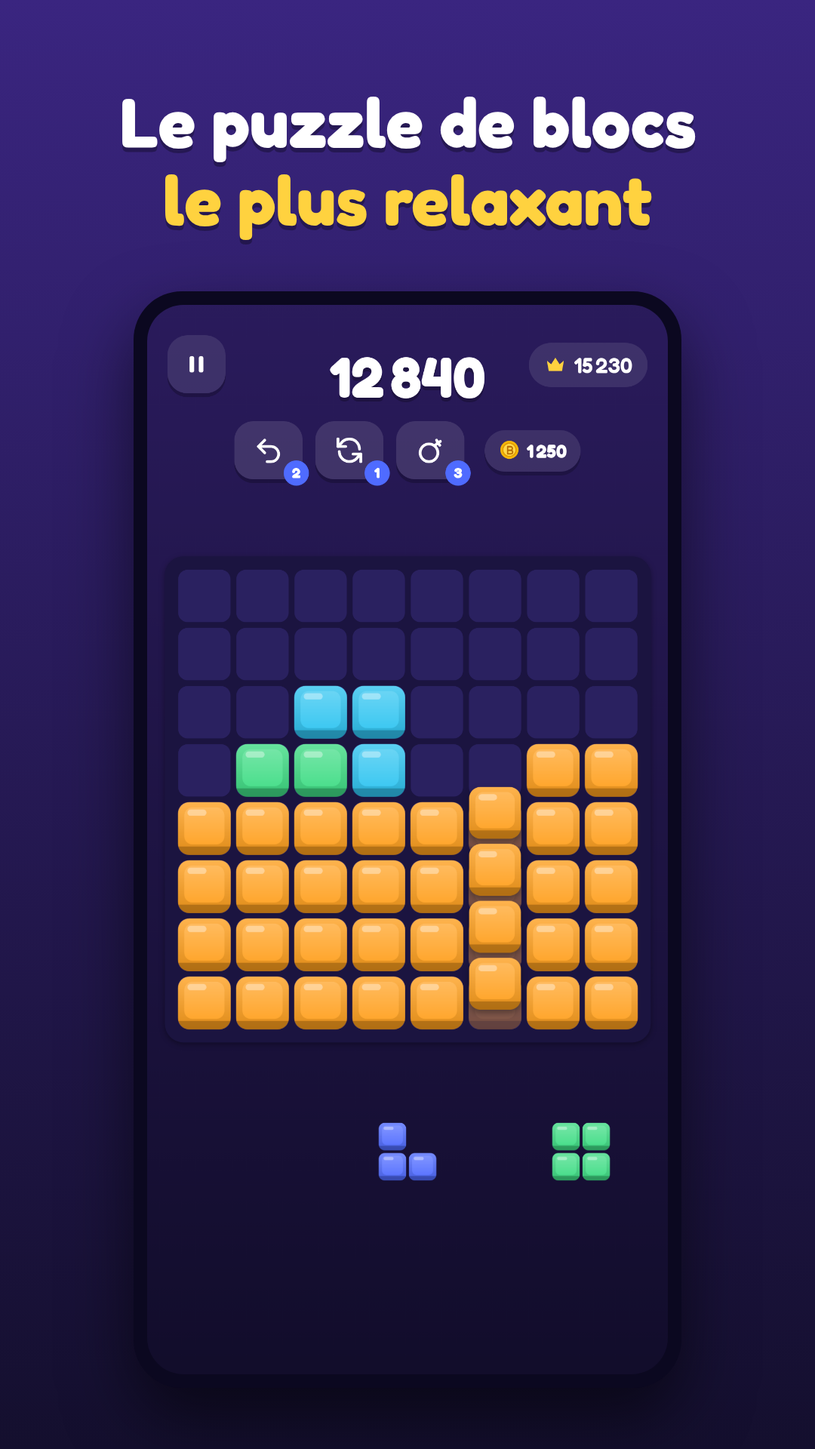
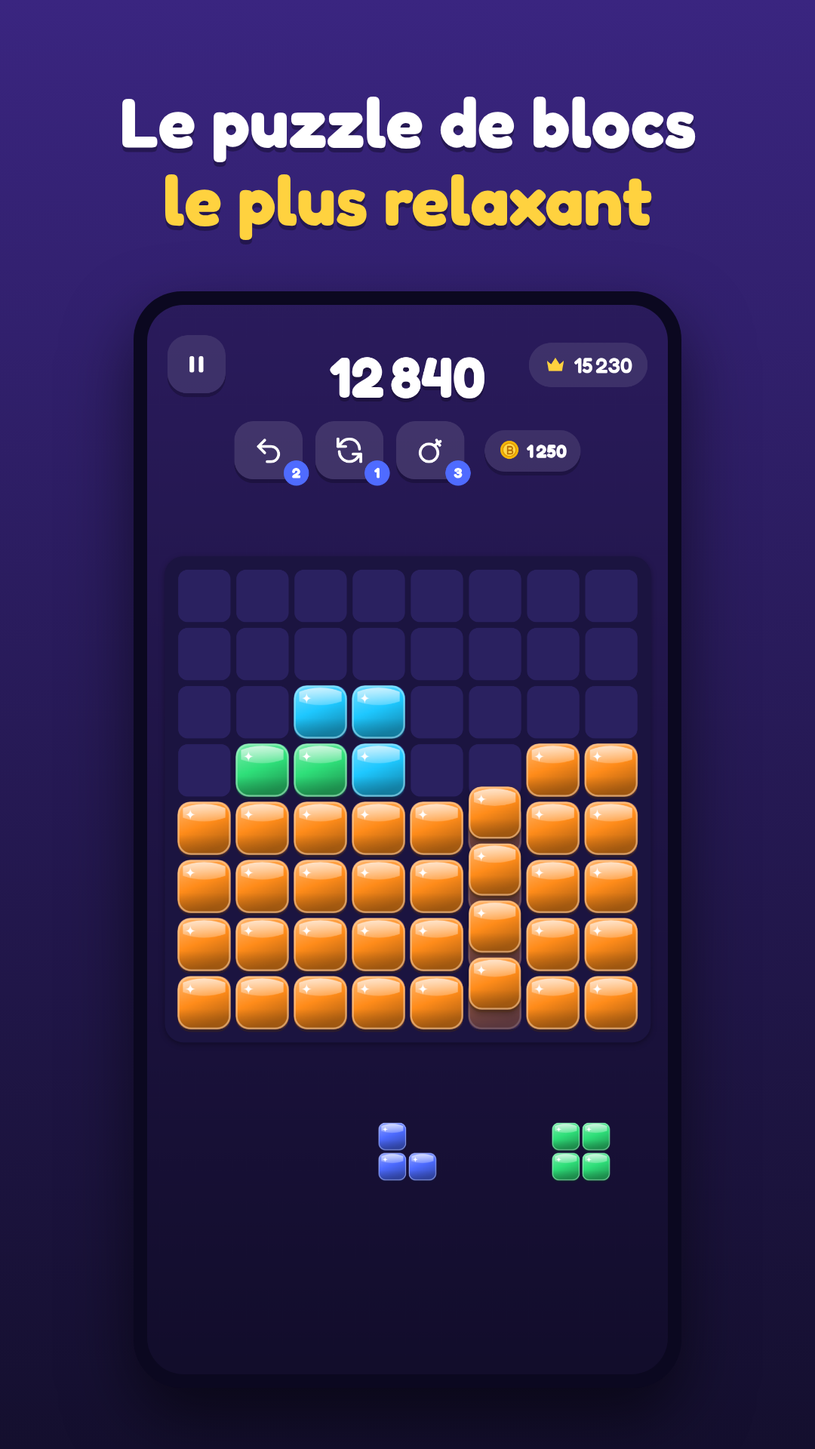
Politique de confidentialité : pass de saison ; nouvelles captures
Claude-Session: https://claude.ai/code/session_01HXMPVAVhKKP6z9kH1ty2Yw

Changed region(s): [[0.2139, 0.4688, 0.7944, 0.7188], [0.6722, 0.75, 0.7639, 0.8125], [0.4583, 0.75, 0.55, 0.8125]]

diff --git a/privacy.html b/privacy.html
@@ -60,7 +60,7 @@
 
         <h2>4. Achats intégrés (Premium et pièces)</h2>
         <p>
-          Le paiement de « Blocmo Premium » et des packs de pièces est entièrement géré par Google Play ou l’App Store. Nous ne recevons jamais tes coordonnées bancaires : uniquement la confirmation de l’achat, afin de supprimer les publicités ou de créditer tes pièces. L’identifiant de la transaction est conservé sur ton appareil pour ne jamais créditer deux fois le même achat. Les pièces sont une monnaie virtuelle utilisable uniquement dans le jeu ; elles n’ont pas de valeur en dehors du jeu et ne peuvent pas être converties en argent.
+          Le paiement de « Blocmo Premium » et des packs de pièces est entièrement géré par Google Play ou l’App Store. Nous ne recevons jamais tes coordonnées bancaires : uniquement la confirmation de l’achat, afin de supprimer les publicités ou de créditer tes pièces. L’identifiant de la transaction est conservé sur ton appareil pour ne jamais créditer deux fois le même achat. Les pièces sont une monnaie virtuelle utilisable uniquement dans le jeu ; elles n’ont pas de valeur en dehors du jeu et ne peuvent pas être converties en argent. La piste premium du pass de saison s’achète de la même façon.
         </p>
 
         <h2>5. Google Play Jeux (classements et succès)</h2>
@@ -137,7 +137,7 @@
 
         <h2>4. In-app purchases (Premium and coins)</h2>
         <p>
-          Payment for “Blocmo Premium” and coin packs is fully handled by Google Play or the App Store. We never receive your payment details — only the confirmation of the purchase, in order to remove ads or credit your coins. The transaction identifier is kept on your device so the same purchase is never credited twice. Coins are a virtual currency usable only in the game; they have no value outside the game and cannot be converted into money.
+          Payment for “Blocmo Premium” and coin packs is fully handled by Google Play or the App Store. We never receive your payment details — only the confirmation of the purchase, in order to remove ads or credit your coins. The transaction identifier is kept on your device so the same purchase is never credited twice. Coins are a virtual currency usable only in the game; they have no value outside the game and cannot be converted into money. The premium track of the season pass is purchased the same way.
         </p>
 
         <h2>5. Google Play Games (leaderboards and achievements)</h2>
@@ -213,7 +213,7 @@
 
         <h2>4. Compras integradas (Premium y monedas)</h2>
         <p>
-          El pago de «Blocmo Premium» y de los packs de monedas lo gestiona íntegramente Google Play o la App Store. Nunca recibimos tus datos bancarios: solo la confirmación de la compra, para quitar los anuncios o abonar tus monedas. El identificador de la transacción se guarda en tu dispositivo para no abonar nunca dos veces la misma compra. Las monedas son una moneda virtual que solo se puede usar en el juego; no tienen valor fuera de él y no se pueden convertir en dinero.
+          El pago de «Blocmo Premium» y de los packs de monedas lo gestiona íntegramente Google Play o la App Store. Nunca recibimos tus datos bancarios: solo la confirmación de la compra, para quitar los anuncios o abonar tus monedas. El identificador de la transacción se guarda en tu dispositivo para no abonar nunca dos veces la misma compra. Las monedas son una moneda virtual que solo se puede usar en el juego; no tienen valor fuera de él y no se pueden convertir en dinero. La pista premium del pase de temporada se compra de la misma forma.
         </p>
 
         <h2>5. Google Play Juegos (clasificaciones y logros)</h2>
@@ -292,7 +292,7 @@
 
         <h2>4. In-App-Käufe (Premium und Münzen)</h2>
         <p>
-          Die Zahlung für „Blocmo Premium“ und Münzpakete wird vollständig von Google Play oder dem App Store abgewickelt. Wir erhalten niemals deine Zahlungsdaten — nur die Bestätigung des Kaufs, um die Werbung zu entfernen oder deine Münzen gutzuschreiben. Die Transaktionskennung wird auf deinem Gerät gespeichert, damit derselbe Kauf nie doppelt gutgeschrieben wird. Münzen sind eine virtuelle Währung, die nur im Spiel verwendet werden kann; sie haben außerhalb des Spiels keinen Wert und können nicht in Geld umgetauscht werden.
+          Die Zahlung für „Blocmo Premium“ und Münzpakete wird vollständig von Google Play oder dem App Store abgewickelt. Wir erhalten niemals deine Zahlungsdaten — nur die Bestätigung des Kaufs, um die Werbung zu entfernen oder deine Münzen gutzuschreiben. Die Transaktionskennung wird auf deinem Gerät gespeichert, damit derselbe Kauf nie doppelt gutgeschrieben wird. Münzen sind eine virtuelle Währung, die nur im Spiel verwendet werden kann; sie haben außerhalb des Spiels keinen Wert und können nicht in Geld umgetauscht werden. Die Premium-Stufe des Saison-Passes wird auf die gleiche Weise gekauft.
         </p>
 
         <h2>5. Google Play Spiele (Ranglisten und Erfolge)</h2>
@@ -373,7 +373,7 @@
 
         <h2>4. Compras no app (Premium e moedas)</h2>
         <p>
-          O pagamento do “Blocmo Premium” e dos pacotes de moedas é totalmente processado pelo Google Play ou pela App Store. Nunca recebemos seus dados de pagamento — apenas a confirmação da compra, para remover os anúncios ou creditar suas moedas. O identificador da transação fica salvo no seu dispositivo para que a mesma compra nunca seja creditada duas vezes. As moedas são uma moeda virtual usada apenas no jogo; não têm valor fora dele e não podem ser convertidas em dinheiro.
+          O pagamento do “Blocmo Premium” e dos pacotes de moedas é totalmente processado pelo Google Play ou pela App Store. Nunca recebemos seus dados de pagamento — apenas a confirmação da compra, para remover os anúncios ou creditar suas moedas. O identificador da transação fica salvo no seu dispositivo para que a mesma compra nunca seja creditada duas vezes. As moedas são uma moeda virtual usada apenas no jogo; não têm valor fora dele e não podem ser convertidas em dinheiro. A trilha premium do passe de temporada é comprada da mesma forma.
         </p>
 
         <h2>5. Google Play Games (rankings e conquistas)</h2>
@@ -451,7 +451,7 @@
 
         <h2>4. Acquisti in-app (Premium e monete)</h2>
         <p>
-          Il pagamento di “Blocmo Premium” e dei pacchetti di monete è interamente gestito da Google Play o dall’App Store. Non riceviamo mai i tuoi dati di pagamento: solo la conferma dell’acquisto, per rimuovere la pubblicità o accreditare le monete. L’identificativo della transazione viene conservato sul tuo dispositivo per non accreditare mai due volte lo stesso acquisto. Le monete sono una valuta virtuale utilizzabile solo nel gioco; non hanno valore al di fuori del gioco e non possono essere convertite in denaro.
+          Il pagamento di “Blocmo Premium” e dei pacchetti di monete è interamente gestito da Google Play o dall’App Store. Non riceviamo mai i tuoi dati di pagamento: solo la conferma dell’acquisto, per rimuovere la pubblicità o accreditare le monete. L’identificativo della transazione viene conservato sul tuo dispositivo per non accreditare mai due volte lo stesso acquisto. Le monete sono una valuta virtuale utilizzabile solo nel gioco; non hanno valore al di fuori del gioco e non possono essere convertite in denaro. La parte premium del pass stagionale si acquista allo stesso modo.
         </p>
 
         <h2>5. Google Play Giochi (classifiche e obiettivi)</h2>
@@ -528,7 +528,7 @@
 
         <h2>4. アプリ内購入（プレミアムとコイン）</h2>
         <p>
-          「Blocmo プレミアム」とコインパックのお支払いは、すべて Google Play または App Store が処理します。当方がお支払い情報を受け取ることはなく、広告の非表示やコインの付与のために購入完了の確認のみを受け取ります。同じ購入が二重に付与されないよう、取引 ID を端末内に保存します。コインはゲーム内でのみ使える仮想通貨で、ゲーム外での価値はなく、現金に換えることはできません。
+          「Blocmo プレミアム」とコインパックのお支払いは、すべて Google Play または App Store が処理します。当方がお支払い情報を受け取ることはなく、広告の非表示やコインの付与のために購入完了の確認のみを受け取ります。同じ購入が二重に付与されないよう、取引 ID を端末内に保存します。コインはゲーム内でのみ使える仮想通貨で、ゲーム外での価値はなく、現金に換えることはできません。 シーズンパスのプレミアムも同じ方法で購入されます。
         </p>
 
         <h2>5. Google Play ゲーム（ランキングと実績）</h2>
@@ -599,7 +599,7 @@
 
         <h2>4. 인앱 구매 (프리미엄 및 코인)</h2>
         <p>
-          “Blocmo 프리미엄”과 코인 팩의 결제는 전적으로 Google Play 또는 App Store가 처리합니다. 저희는 결제 정보를 절대 받지 않으며, 광고 제거나 코인 지급을 위해 구매 확인만 받습니다. 같은 구매가 두 번 지급되지 않도록 거래 ID를 기기에 저장합니다. 코인은 게임 안에서만 쓸 수 있는 가상 화폐로, 게임 밖에서는 가치가 없으며 현금으로 바꿀 수 없습니다.
+          “Blocmo 프리미엄”과 코인 팩의 결제는 전적으로 Google Play 또는 App Store가 처리합니다. 저희는 결제 정보를 절대 받지 않으며, 광고 제거나 코인 지급을 위해 구매 확인만 받습니다. 같은 구매가 두 번 지급되지 않도록 거래 ID를 기기에 저장합니다. 코인은 게임 안에서만 쓸 수 있는 가상 화폐로, 게임 밖에서는 가치가 없으며 현금으로 바꿀 수 없습니다. 시즌 패스 프리미엄도 같은 방식으로 구매됩니다.
         </p>
 
         <h2>5. Google Play 게임즈 (순위표 및 업적)</h2>
@@ -667,7 +667,7 @@
 
         <h2>4. 应用内购买（高级版和金币）</h2>
         <p>
-          “Blocmo 高级版”和金币礼包的付款完全由 Google Play 或 App Store 处理。我们绝不会收到你的支付信息，只会收到购买确认，用于去除广告或发放金币。交易编号保存在你的设备上，以免同一笔购买被重复发放。金币是只能在游戏中使用的虚拟货币，在游戏外没有价值，也不能兑换成现金。
+          “Blocmo 高级版”和金币礼包的付款完全由 Google Play 或 App Store 处理。我们绝不会收到你的支付信息，只会收到购买确认，用于去除广告或发放金币。交易编号保存在你的设备上，以免同一笔购买被重复发放。金币是只能在游戏中使用的虚拟货币，在游戏外没有价值，也不能兑换成现金。 赛季通行证的高级版也以同样方式购买。
         </p>
 
         <h2>5. Google Play 游戏（排行榜和成就）</h2>
@@ -735,7 +735,7 @@
 
         <h2>4. 應用程式內購買（進階版和金幣）</h2>
         <p>
-          「Blocmo 進階版」和金幣禮包的付款完全由 Google Play 或 App Store 處理。我們絕不會收到你的付款資訊，只會收到購買確認，用於移除廣告或發放金幣。交易編號會儲存在你的裝置上，避免同一筆購買被重複發放。金幣是只能在遊戲中使用的虛擬貨幣，在遊戲外沒有價值，也不能兌換成現金。
+          「Blocmo 進階版」和金幣禮包的付款完全由 Google Play 或 App Store 處理。我們絕不會收到你的付款資訊，只會收到購買確認，用於移除廣告或發放金幣。交易編號會儲存在你的裝置上，避免同一筆購買被重複發放。金幣是只能在遊戲中使用的虛擬貨幣，在遊戲外沒有價值，也不能兌換成現金。 賽季通行證的進階版也以同樣方式購買。
         </p>
 
         <h2>5. Google Play 遊戲（排行榜和成就）</h2>
@@ -803,7 +803,7 @@
 
         <h2>4. Uygulama içi satın alımlar (Premium ve altın)</h2>
         <p>
-          “Blocmo Premium” ve altın paketlerinin ödemesi tamamen Google Play veya App Store tarafından yapılır. Ödeme bilgilerini asla almayız; yalnızca reklamları kaldırmak veya altınlarını yüklemek için satın alma onayını alırız. Aynı satın alımın iki kez yüklenmemesi için işlem kimliği cihazında saklanır. Altınlar yalnızca oyunda kullanılabilen sanal bir paradır; oyun dışında değeri yoktur ve paraya çevrilemez.
+          “Blocmo Premium” ve altın paketlerinin ödemesi tamamen Google Play veya App Store tarafından yapılır. Ödeme bilgilerini asla almayız; yalnızca reklamları kaldırmak veya altınlarını yüklemek için satın alma onayını alırız. Aynı satın alımın iki kez yüklenmemesi için işlem kimliği cihazında saklanır. Altınlar yalnızca oyunda kullanılabilen sanal bir paradır; oyun dışında değeri yoktur ve paraya çevrilemez. Sezon kartının premium bölümü de aynı şekilde satın alınır.
         </p>
 
         <h2>5. Google Play Oyunlar (sıralamalar ve başarımlar)</h2>
@@ -871,7 +871,7 @@
 
         <h2>4. Встроенные покупки (Премиум и монеты)</h2>
         <p>
-          Оплату «Blocmo Премиум» и наборов монет полностью обрабатывает Google Play или App Store. Мы никогда не получаем твои платёжные данные — только подтверждение покупки, чтобы отключить рекламу или начислить монеты. Идентификатор транзакции хранится на твоём устройстве, чтобы одна и та же покупка не была начислена дважды. Монеты — виртуальная валюта, которую можно использовать только в игре; вне игры они не имеют ценности и не обмениваются на деньги.
+          Оплату «Blocmo Премиум» и наборов монет полностью обрабатывает Google Play или App Store. Мы никогда не получаем твои платёжные данные — только подтверждение покупки, чтобы отключить рекламу или начислить монеты. Идентификатор транзакции хранится на твоём устройстве, чтобы одна и та же покупка не была начислена дважды. Монеты — виртуальная валюта, которую можно использовать только в игре; вне игры они не имеют ценности и не обмениваются на деньги. Премиум-часть сезонного пропуска покупается так же.
         </p>
 
         <h2>5. Google Play Игры (рейтинги и достижения)</h2>
@@ -939,7 +939,7 @@
 
         <h2>4. Pembelian dalam aplikasi (Premium dan koin)</h2>
         <p>
-          Pembayaran “Blocmo Premium” dan paket koin sepenuhnya diproses oleh Google Play atau App Store. Kami tidak pernah menerima detail pembayaranmu — hanya konfirmasi pembelian, untuk menghapus iklan atau menambahkan koin. ID transaksi disimpan di perangkatmu agar pembelian yang sama tidak pernah ditambahkan dua kali. Koin adalah mata uang virtual yang hanya bisa dipakai di dalam game; koin tidak bernilai di luar game dan tidak bisa ditukar dengan uang.
+          Pembayaran “Blocmo Premium” dan paket koin sepenuhnya diproses oleh Google Play atau App Store. Kami tidak pernah menerima detail pembayaranmu — hanya konfirmasi pembelian, untuk menghapus iklan atau menambahkan koin. ID transaksi disimpan di perangkatmu agar pembelian yang sama tidak pernah ditambahkan dua kali. Koin adalah mata uang virtual yang hanya bisa dipakai di dalam game; koin tidak bernilai di luar game dan tidak bisa ditukar dengan uang. Jalur premium pass musim juga dibeli dengan cara yang sama.
         </p>
 
         <h2>5. Google Play Game (papan peringkat dan pencapaian)</h2>
@@ -1007,7 +1007,7 @@
 
         <h2>4. In-app-aankopen (Premium en munten)</h2>
         <p>
-          De betaling van „Blocmo Premium” en muntpakketten wordt volledig afgehandeld door Google Play of de App Store. We ontvangen nooit je betaalgegevens — alleen de bevestiging van de aankoop, om de reclame te verwijderen of je munten bij te schrijven. De transactie-ID wordt op je apparaat bewaard, zodat dezelfde aankoop nooit twee keer wordt bijgeschreven. Munten zijn een virtuele munteenheid die je alleen in het spel kunt gebruiken; ze hebben buiten het spel geen waarde en kunnen niet in geld worden omgezet.
+          De betaling van „Blocmo Premium” en muntpakketten wordt volledig afgehandeld door Google Play of de App Store. We ontvangen nooit je betaalgegevens — alleen de bevestiging van de aankoop, om de reclame te verwijderen of je munten bij te schrijven. De transactie-ID wordt op je apparaat bewaard, zodat dezelfde aankoop nooit twee keer wordt bijgeschreven. Munten zijn een virtuele munteenheid die je alleen in het spel kunt gebruiken; ze hebben buiten het spel geen waarde en kunnen niet in geld worden omgezet. Het premiumdeel van de seizoenspas wordt op dezelfde manier gekocht.
         </p>
 
         <h2>5. Google Play Games (ranglijsten en prestaties)</h2>
@@ -1075,7 +1075,7 @@
 
         <h2>4. Zakupy w aplikacji (Premium i monety)</h2>
         <p>
-          Płatność za „Blocmo Premium” i pakiety monet w całości obsługuje Google Play lub App Store. Nigdy nie otrzymujemy twoich danych płatniczych — tylko potwierdzenie zakupu, aby usunąć reklamy lub dodać monety. Identyfikator transakcji jest przechowywany na twoim urządzeniu, aby ten sam zakup nigdy nie został naliczony dwa razy. Monety to wirtualna waluta, której można używać wyłącznie w grze; poza grą nie mają wartości i nie można ich wymienić na pieniądze.
+          Płatność za „Blocmo Premium” i pakiety monet w całości obsługuje Google Play lub App Store. Nigdy nie otrzymujemy twoich danych płatniczych — tylko potwierdzenie zakupu, aby usunąć reklamy lub dodać monety. Identyfikator transakcji jest przechowywany na twoim urządzeniu, aby ten sam zakup nigdy nie został naliczony dwa razy. Monety to wirtualna waluta, której można używać wyłącznie w grze; poza grą nie mają wartości i nie można ich wymienić na pieniądze. Część premium przepustki sezonowej kupuje się w ten sam sposób.
         </p>
 
         <h2>5. Gry Google Play (rankingi i osiągnięcia)</h2>
@@ -1143,7 +1143,7 @@
 
         <h2>4. Mua hàng trong ứng dụng (Premium và xu)</h2>
         <p>
-          Việc thanh toán “Blocmo Premium” và các gói xu hoàn toàn do Google Play hoặc App Store xử lý. Chúng tôi không bao giờ nhận thông tin thanh toán của bạn — chỉ nhận xác nhận giao dịch để gỡ quảng cáo hoặc cộng xu. Mã giao dịch được lưu trên thiết bị để một giao dịch không bao giờ bị cộng hai lần. Xu là tiền ảo chỉ dùng được trong trò chơi; xu không có giá trị bên ngoài trò chơi và không thể quy đổi thành tiền.
+          Việc thanh toán “Blocmo Premium” và các gói xu hoàn toàn do Google Play hoặc App Store xử lý. Chúng tôi không bao giờ nhận thông tin thanh toán của bạn — chỉ nhận xác nhận giao dịch để gỡ quảng cáo hoặc cộng xu. Mã giao dịch được lưu trên thiết bị để một giao dịch không bao giờ bị cộng hai lần. Xu là tiền ảo chỉ dùng được trong trò chơi; xu không có giá trị bên ngoài trò chơi và không thể quy đổi thành tiền. Phần Premium của vé mùa cũng được mua theo cách tương tự.
         </p>
 
         <h2>5. Google Play Trò chơi (bảng xếp hạng và thành tích)</h2>
@@ -1211,7 +1211,7 @@
 
         <h2>4. การซื้อในแอป (พรีเมียมและเหรียญ)</h2>
         <p>
-          การชำระเงินสำหรับ “Blocmo พรีเมียม” และแพ็กเหรียญดำเนินการโดย Google Play หรือ App Store ทั้งหมด เราไม่เคยได้รับข้อมูลการชำระเงินของคุณ ได้รับเพียงการยืนยันการซื้อเพื่อปิดโฆษณาหรือเพิ่มเหรียญ รหัสธุรกรรมจะถูกเก็บไว้ในอุปกรณ์ของคุณเพื่อไม่ให้การซื้อเดียวกันถูกเพิ่มซ้ำ เหรียญเป็นสกุลเงินเสมือนที่ใช้ได้เฉพาะในเกม ไม่มีมูลค่านอกเกมและแลกเป็นเงินไม่ได้
+          การชำระเงินสำหรับ “Blocmo พรีเมียม” และแพ็กเหรียญดำเนินการโดย Google Play หรือ App Store ทั้งหมด เราไม่เคยได้รับข้อมูลการชำระเงินของคุณ ได้รับเพียงการยืนยันการซื้อเพื่อปิดโฆษณาหรือเพิ่มเหรียญ รหัสธุรกรรมจะถูกเก็บไว้ในอุปกรณ์ของคุณเพื่อไม่ให้การซื้อเดียวกันถูกเพิ่มซ้ำ เหรียญเป็นสกุลเงินเสมือนที่ใช้ได้เฉพาะในเกม ไม่มีมูลค่านอกเกมและแลกเป็นเงินไม่ได้ พาสพรีเมียมของซีซันพาสก็ซื้อด้วยวิธีเดียวกัน
         </p>
 
         <h2>5. Google Play Games (อันดับและความสำเร็จ)</h2>
@@ -1279,7 +1279,7 @@
 
         <h2>4. इन-ऐप खरीदारी (प्रीमियम और सिक्के)</h2>
         <p>
-          “Blocmo प्रीमियम” और सिक्कों के पैक का भुगतान पूरी तरह Google Play या App Store संभालते हैं। हमें आपकी भुगतान जानकारी कभी नहीं मिलती — सिर्फ़ खरीदारी की पुष्टि मिलती है, ताकि विज्ञापन हटाए जा सकें या सिक्के जोड़े जा सकें। लेन-देन आईडी आपके डिवाइस पर सहेजी जाती है, ताकि एक ही खरीदारी दो बार न जुड़े। सिक्के एक आभासी मुद्रा हैं जिनका इस्तेमाल सिर्फ़ गेम में होता है; गेम के बाहर उनकी कोई कीमत नहीं है और उन्हें पैसों में नहीं बदला जा सकता।
+          “Blocmo प्रीमियम” और सिक्कों के पैक का भुगतान पूरी तरह Google Play या App Store संभालते हैं। हमें आपकी भुगतान जानकारी कभी नहीं मिलती — सिर्फ़ खरीदारी की पुष्टि मिलती है, ताकि विज्ञापन हटाए जा सकें या सिक्के जोड़े जा सकें। लेन-देन आईडी आपके डिवाइस पर सहेजी जाती है, ताकि एक ही खरीदारी दो बार न जुड़े। सिक्के एक आभासी मुद्रा हैं जिनका इस्तेमाल सिर्फ़ गेम में होता है; गेम के बाहर उनकी कोई कीमत नहीं है और उन्हें पैसों में नहीं बदला जा सकता। सीज़न पास का प्रीमियम हिस्सा भी इसी तरह खरीदा जाता है।
         </p>
 
         <h2>5. Google Play गेम्स (लीडरबोर्ड और उपलब्धियाँ)</h2>
